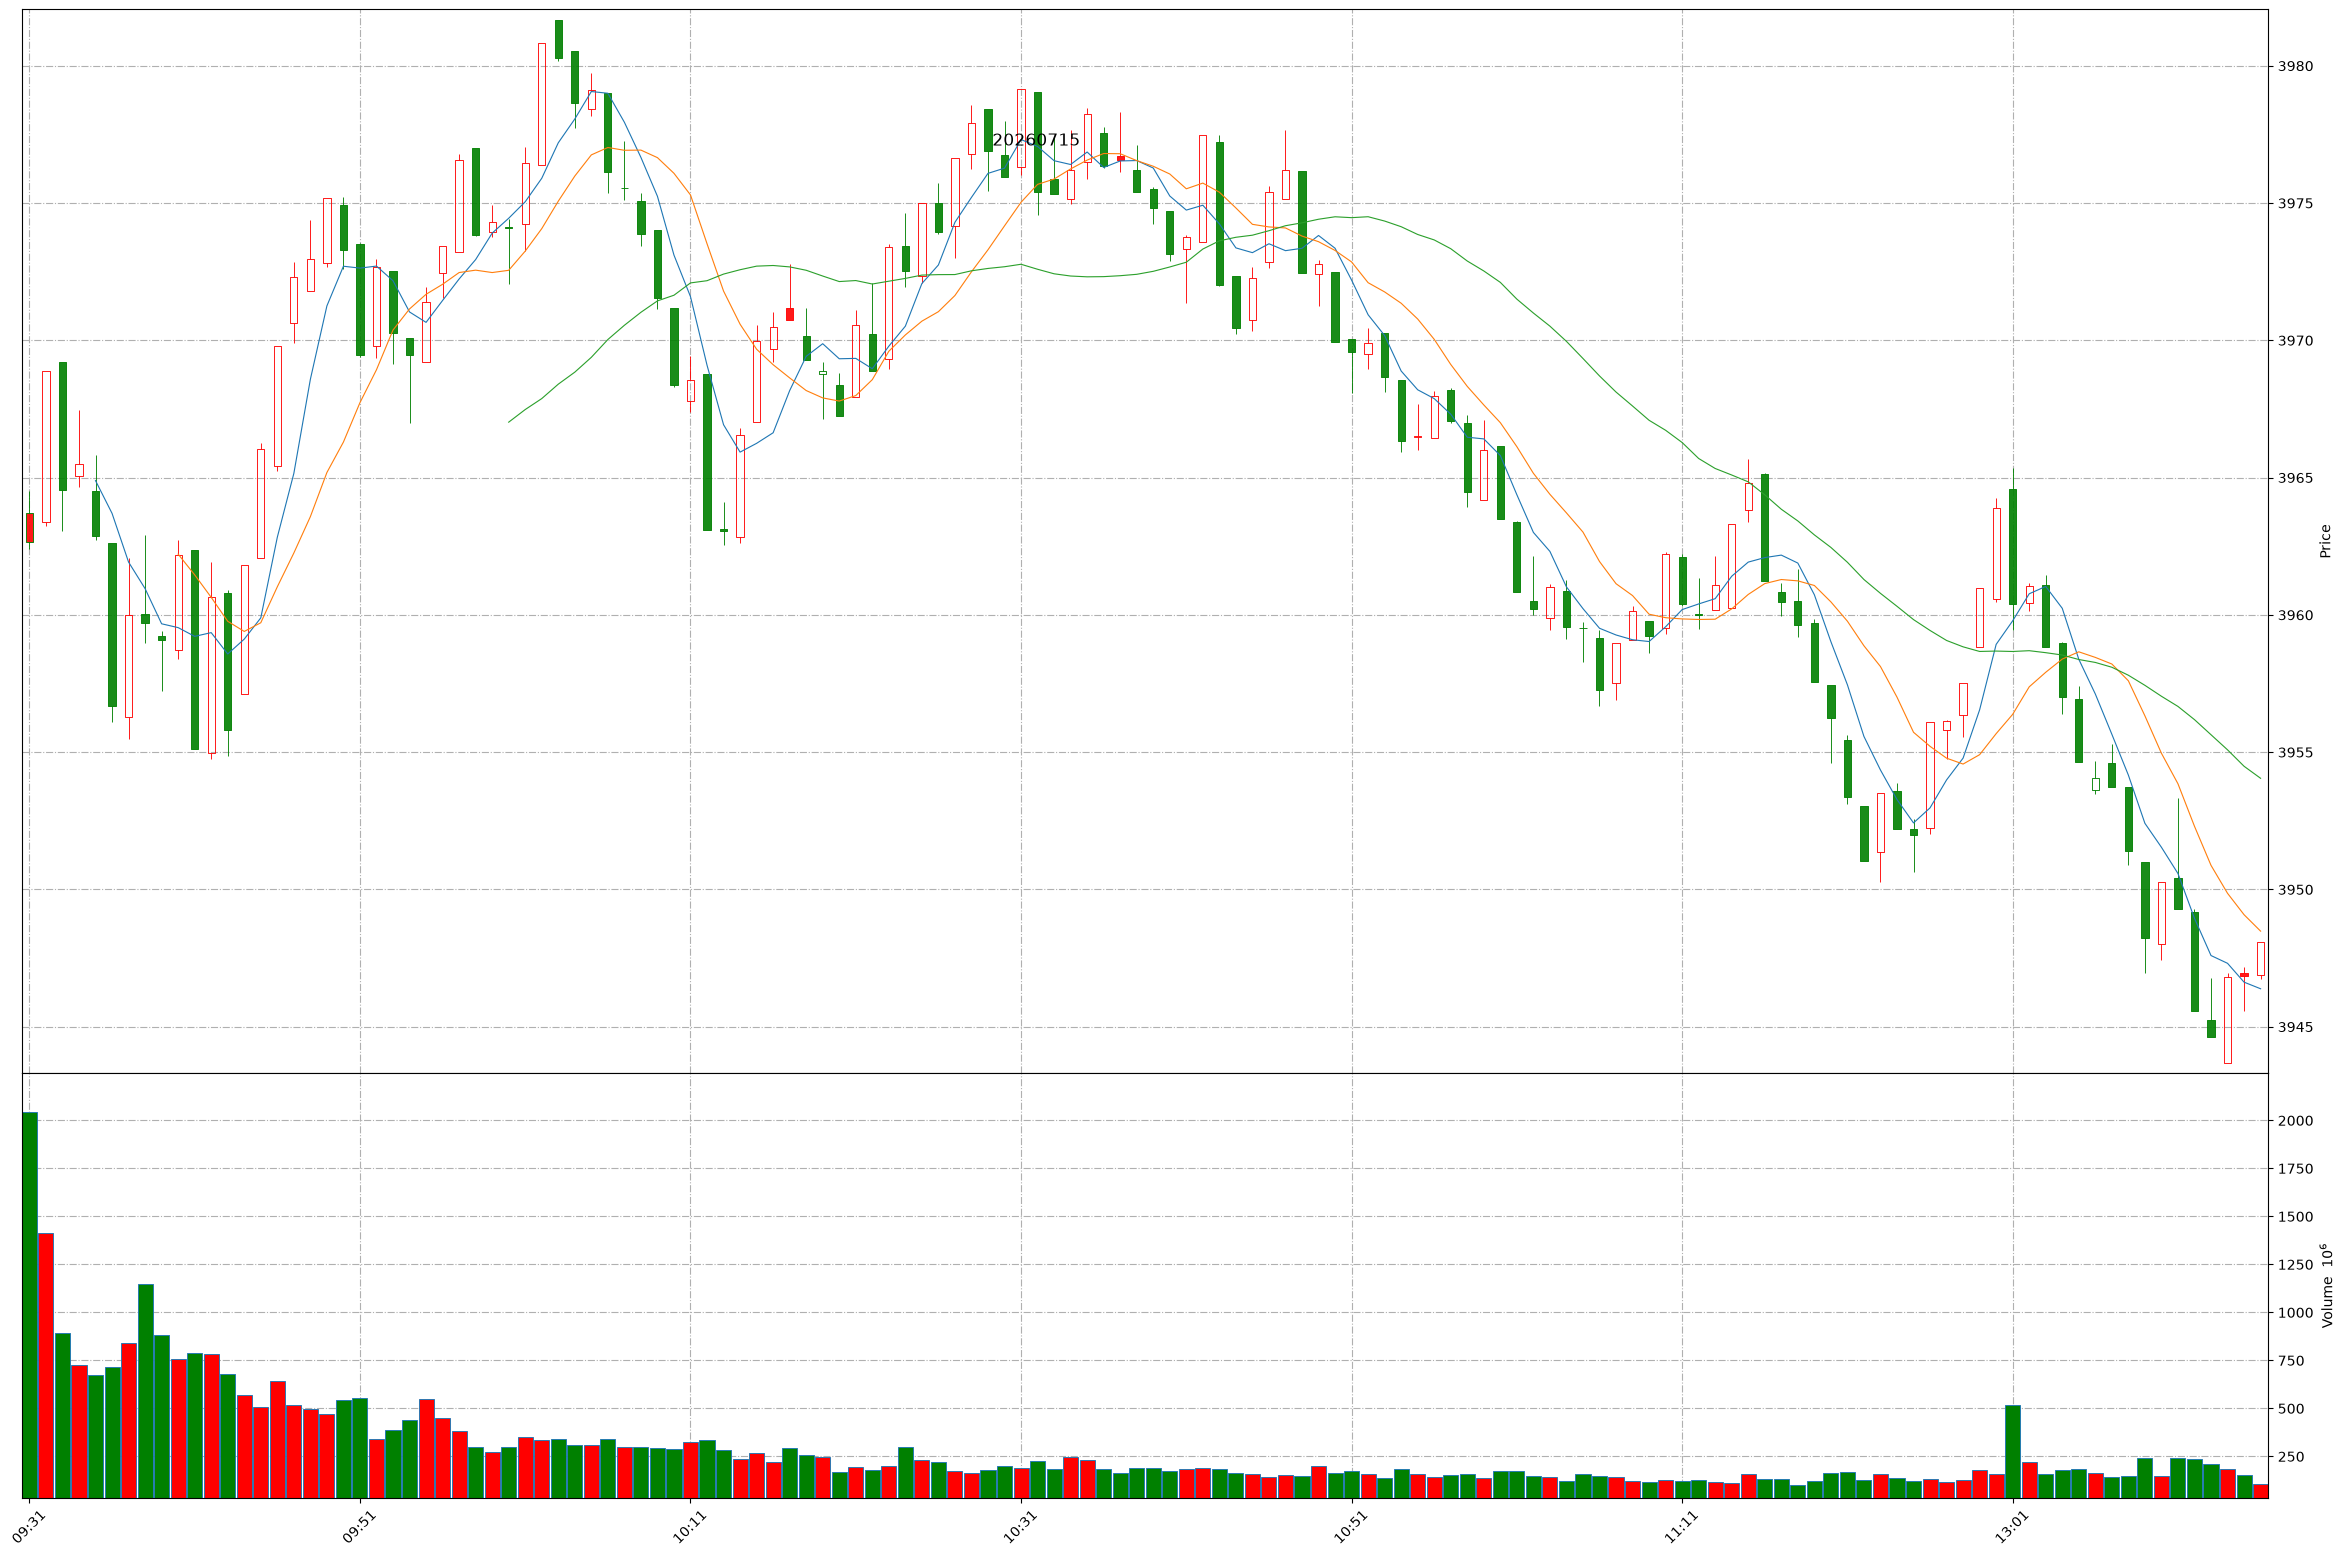
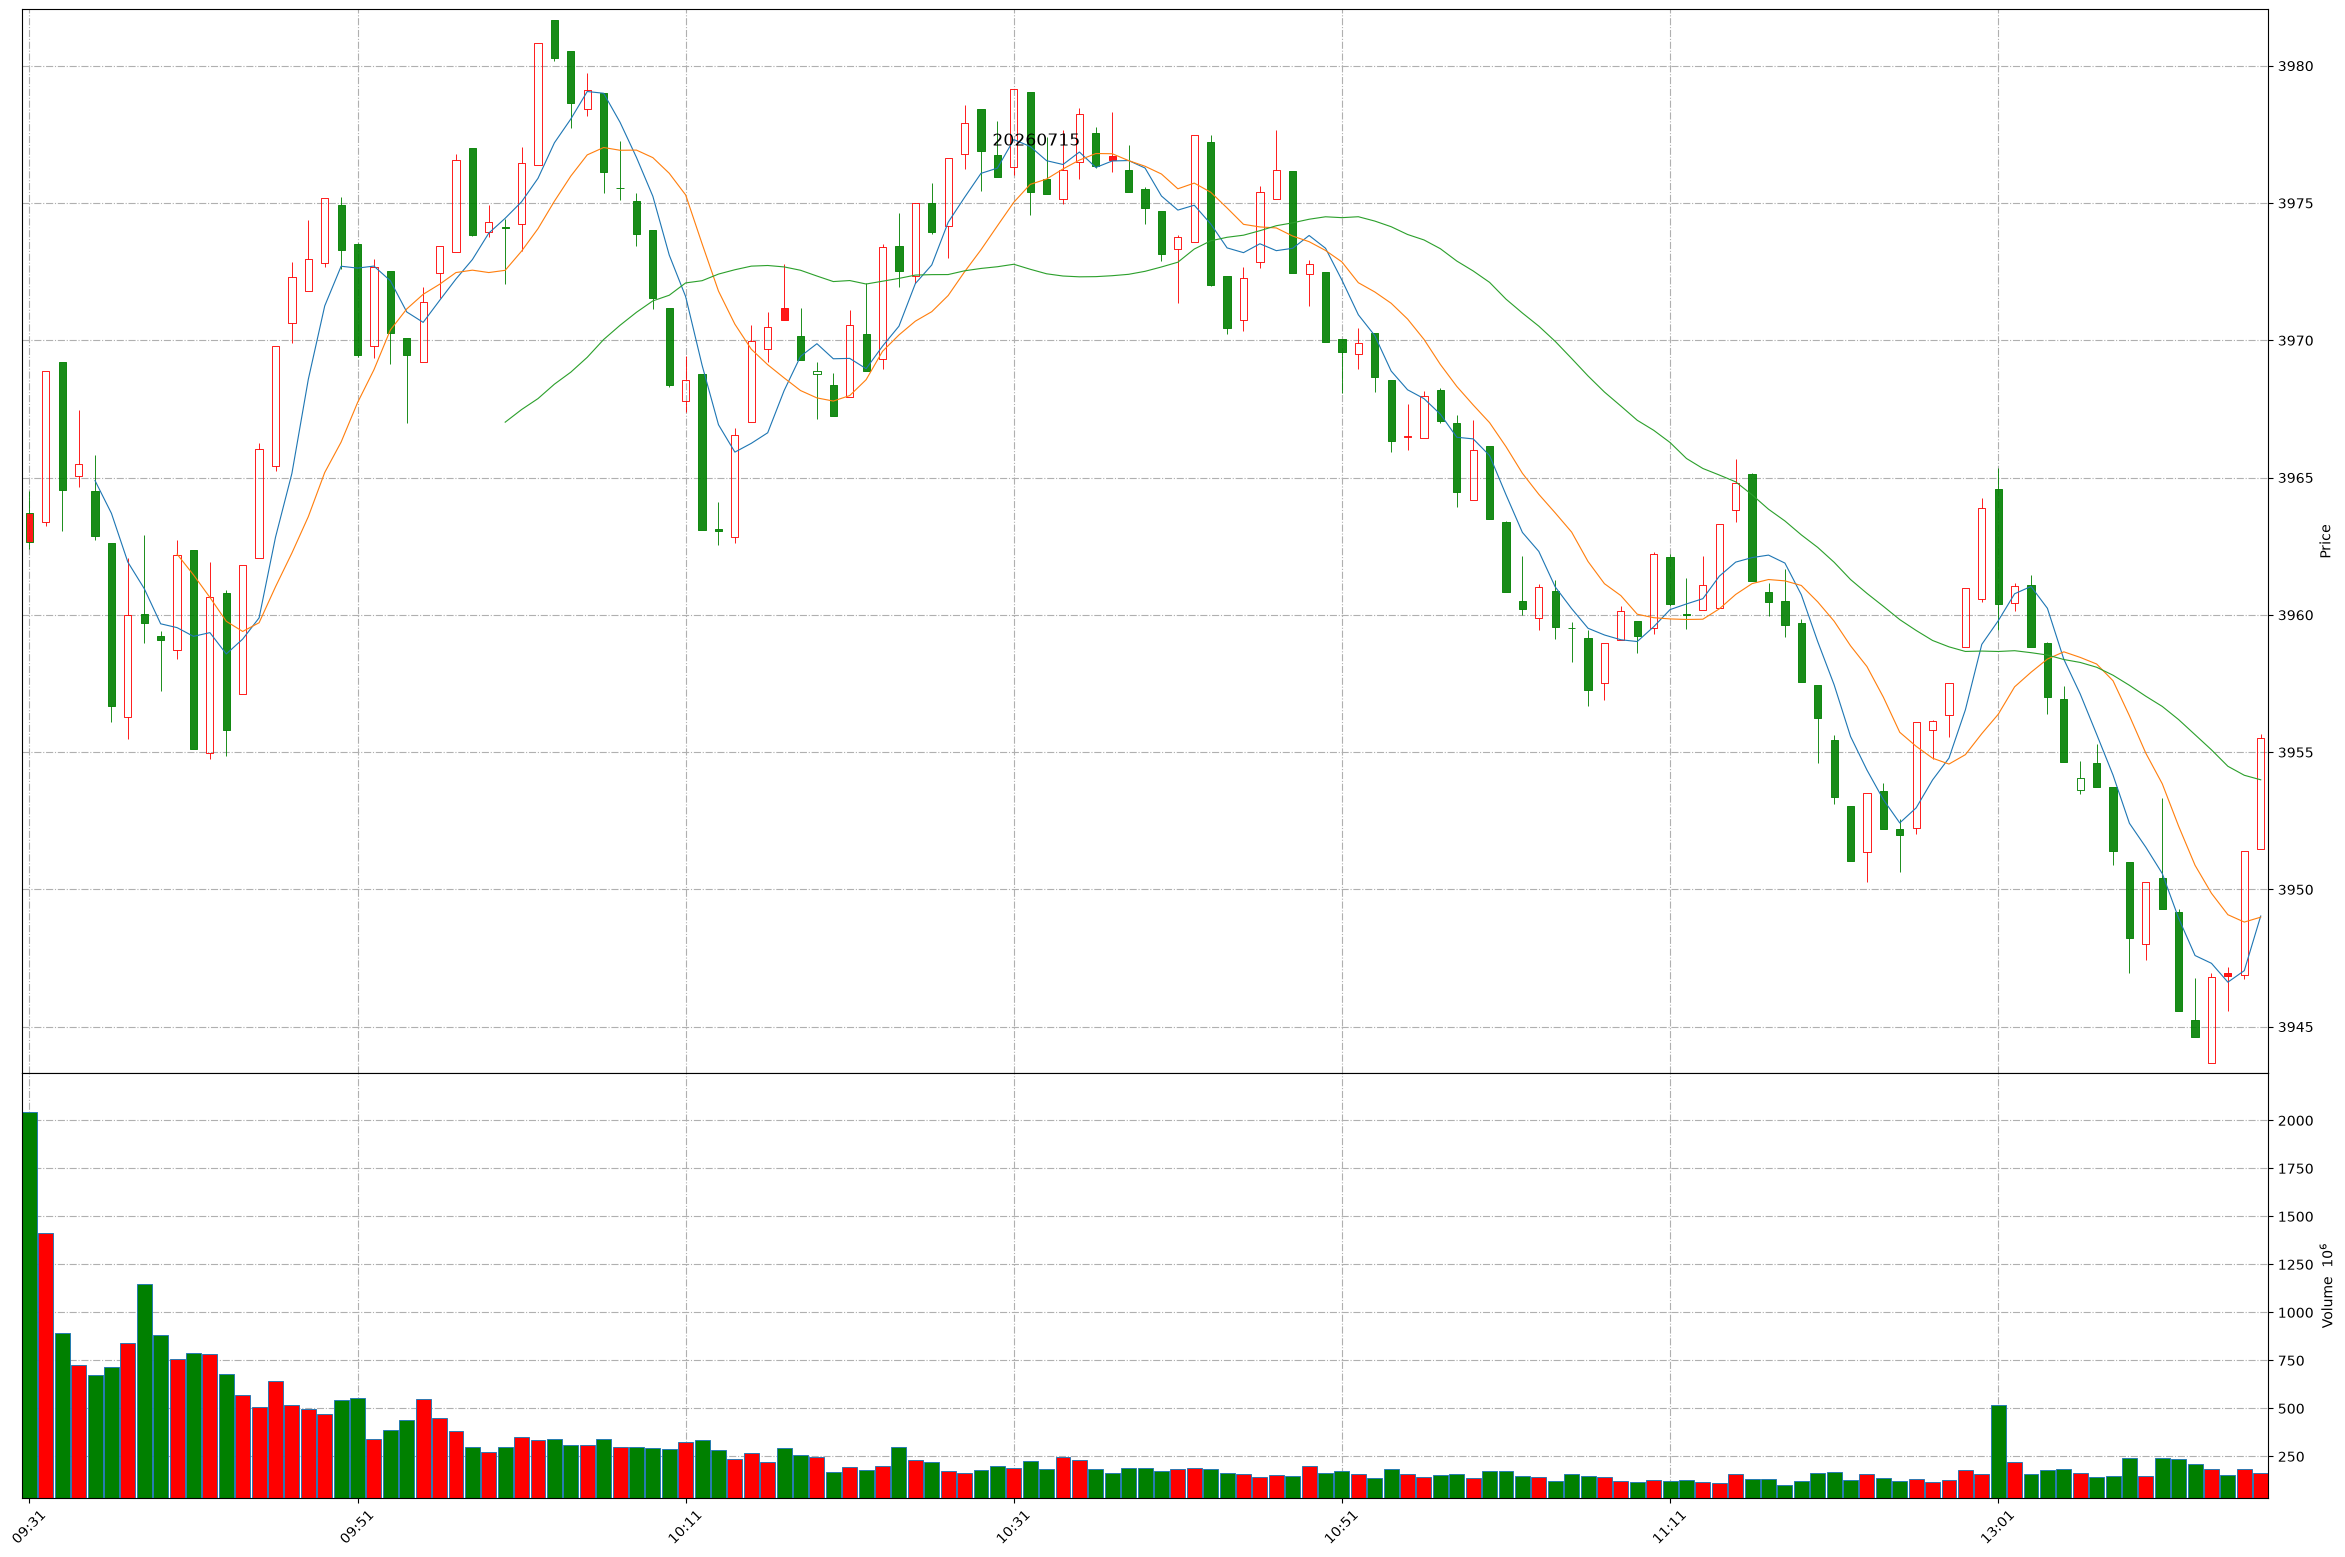
Github action update at 2026-07-15 13:17:14.

diff --git a/README.md b/README.md
@@ -1,11 +1,11 @@
 
 # Daily-A-share-market-quotes 每日 A 股指数（5min 更新）- 20260715
 
-### 上证指数 20260715 13:15
+### 上证指数 20260715 13:17
 ![](./fig/2026/7/20260715-sh000001.png)
 
-### 深证成指 20260715 13:15
+### 深证成指 20260715 13:17
 ![](./fig/2026/7/20260715-sz399001.png)
 
-### 北证50 20260715 13:15
+### 北证50 20260715 13:17
 ![](./fig/2026/7/20260715-bj899050.png)
